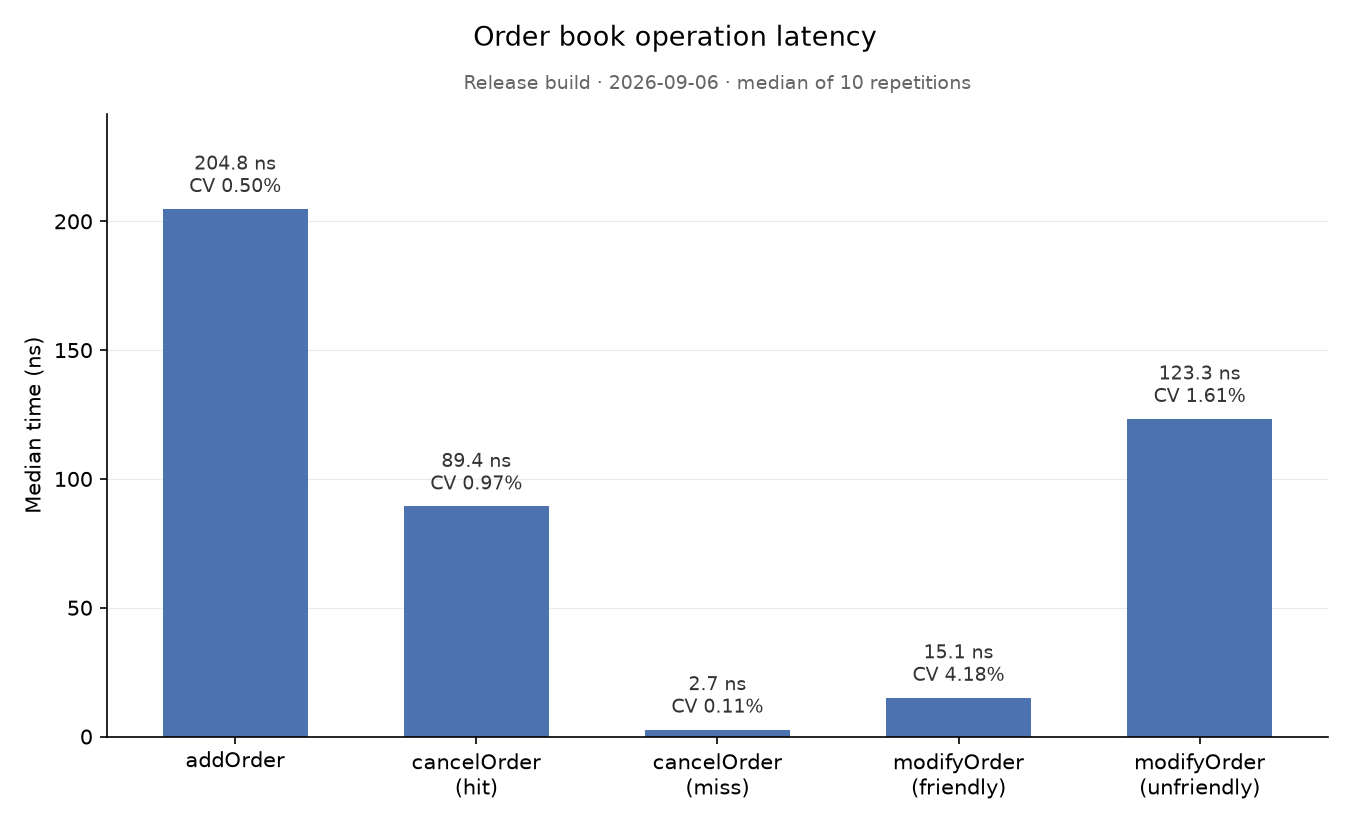
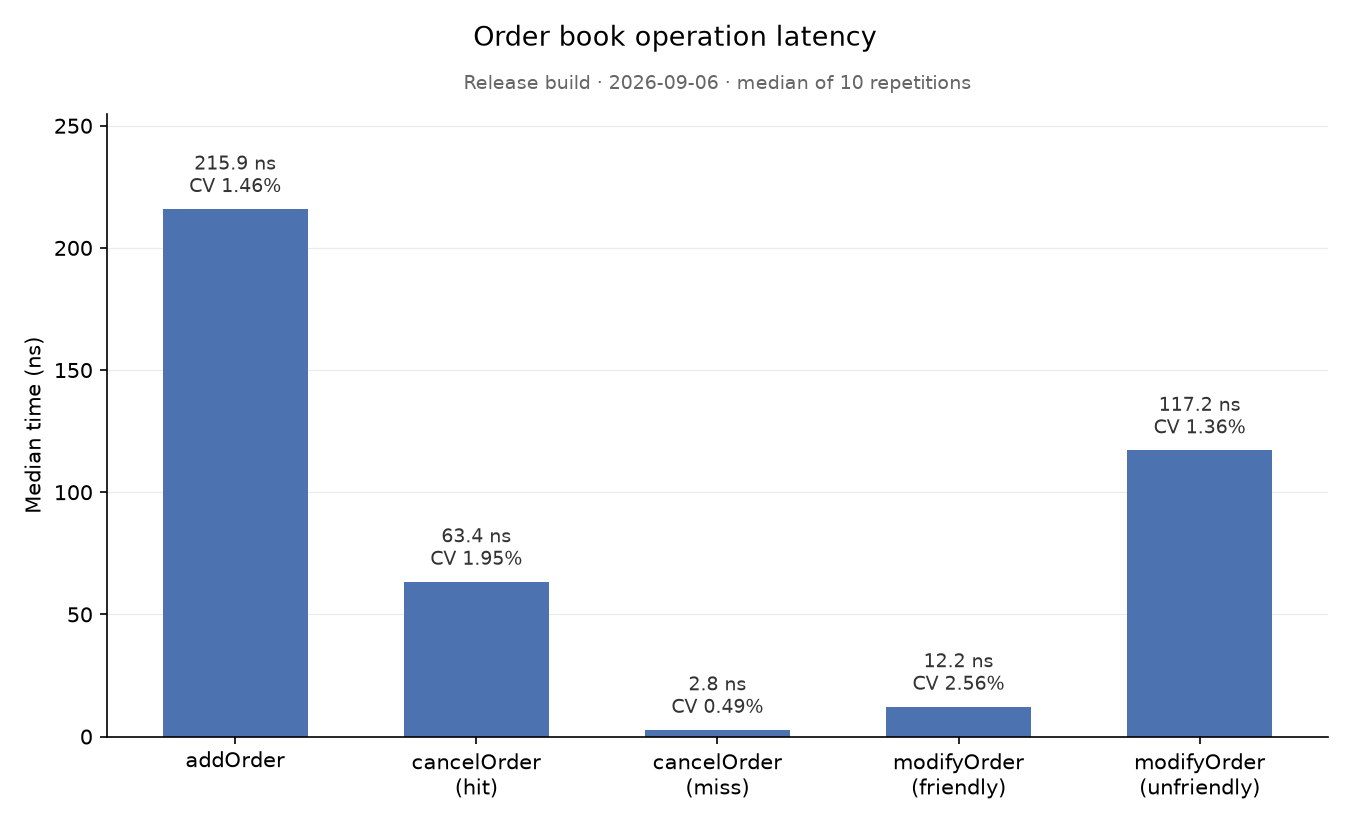
refactor: make cancelOrder O(1) by storing level pointers in OrderEntry
- OrderEntry keeps pointers to its level list and LevelData, so
  cancelOrder no longer descends bids_/asks_ or hashes bidsData_/asksData_
- friendly modifyOrder uses the same pointer instead of a hash lookup
- keep previous baseline as benchmarks/results_4b4fa81.json
- record new results in benchmarks/results.json and regenerate the chart
  (cancelOrder hit 89.4 -> 63.4 ns, modifyOrder friendly 15.1 -> 12.2 ns,
  addOrder 204.8 -> 215.9 ns from the 24 -> 40 byte entry)

diff --git a/src/lib/orderbook.cpp b/src/lib/orderbook.cpp
@@ -101,19 +101,12 @@ OrderResult OrderBook::addOrder(OrderType type, Side side, Price price, Quantity
         return {incoming->getID(), trades};
 
     if (!incoming->isFilled()) {
-        if (side == Side::buy) {
-            auto& list = bids_[price];
-            list.push_back(incoming);
-            orders_[id] = OrderEntry{ incoming, std::prev(list.end()) };
-            bidsData_[price].count_++;
-            bidsData_[price].qty_ += incoming->getRemainingQuantity();
-        } else {
-            auto& list = asks_[price];
-            list.push_back(incoming);
-            orders_[id] = OrderEntry{ incoming, std::prev(list.end()) };
-            asksData_[price].count_++;
-            asksData_[price].qty_ += incoming->getRemainingQuantity();
-        }
+        auto& list  = (side == Side::buy) ? bids_[price]     : asks_[price];
+        auto& level = (side == Side::buy) ? bidsData_[price] : asksData_[price];
+        list.push_back(incoming);
+        level.count_++;
+        level.qty_ += incoming->getRemainingQuantity();
+        orders_[id] = OrderEntry{ incoming, std::prev(list.end()), &list, &level };
     }
 
     return {incoming->getID(), trades};
@@ -135,26 +128,25 @@ void OrderBook::cancelOrder(OrderID orderID) {
     auto it = findOrder(orderID);
     if (it == orders_.end()) return;
 
-    const auto [order, location] = it->second;
+    const auto& [order, location, list, level] = it->second;
+    Side side = order->getSide();
     Price price = order->getPrice();
     Quantity remainingQty = order->getRemainingQuantity();
-    
-    if (order->getSide() == Side::buy) {
-        OrderPointers& list = bids_[price];
-        list.erase(location);
-        if (list.empty()) bids_.erase(order->getPrice()); 
-        auto& level = bidsData_[price];
-        level.count_--;
-        level.qty_ -= remainingQty;
-        if (level.count_ == 0) bidsData_.erase(price);
-    } else if (order->getSide() == Side::sell) {
-        OrderPointers& list = asks_[order->getPrice()];
-        list.erase(location);
-        if (list.empty()) asks_.erase(order->getPrice());
-        auto& level = asksData_[price];
-        level.count_--;
-        level.qty_ -= remainingQty;
-        if (level.count_ == 0) asksData_.erase(price);
+
+    // No lookup by price: the entry already points at its level.
+    list->erase(location);
+    level->count_--;
+    level->qty_ -= remainingQty;
+
+    // Only an emptied level is looked up by price, and that is rare.
+    if (list->empty()) {
+        if (side == Side::buy) {
+            bids_.erase(price);
+            bidsData_.erase(price);
+        } else {
+            asks_.erase(price);
+            asksData_.erase(price);
+        }
     }
 
     orders_.erase(orderID);
@@ -182,8 +174,7 @@ std::optional<OrderResult> OrderBook::modifyOrder(OrderID orderID, Price newPric
     // Friendly
     if (newPrice == oldPrice && newQty < oldQty) {
         order->fill(oldQty - newQty);
-        auto& data = (side == Side::buy) ? bidsData_ : asksData_;
-        data[oldPrice].qty_ -= (oldQty - newQty);
+        it->second.levelData_->qty_ -= (oldQty - newQty);
         return OrderResult({orderID, {}});
     } else { // Unfriendly
         cancelOrder(orderID);

diff --git a/src/lib/orderbook.hpp b/src/lib/orderbook.hpp
@@ -9,14 +9,22 @@
 
 class OrderBook {
     private:
-        struct OrderEntry {
-            OrderPointer order_ {nullptr};
-            OrderPointers::iterator location_;
-        };
-
         struct LevelData {
             Quantity qty_ {0};
             Quantity count_ {0};
+        };
+
+        // level_ and levelData_ point into bids_/asks_ and bidsData_/asksData_.
+        // Both std::map and std::unordered_map keep element addresses stable
+        // until that element is erased, and a level is only erased once its
+        // last order leaves, so the pointers stay valid for as long as the
+        // entry exists. They let cancelOrder skip the tree descent and the
+        // hash lookup it would otherwise need to find the level by price.
+        struct OrderEntry {
+            OrderPointer order_ {nullptr};
+            OrderPointers::iterator location_;
+            OrderPointers* level_ {nullptr};
+            LevelData* levelData_ {nullptr};
         };
 
         OrderID nextID_ {1};
